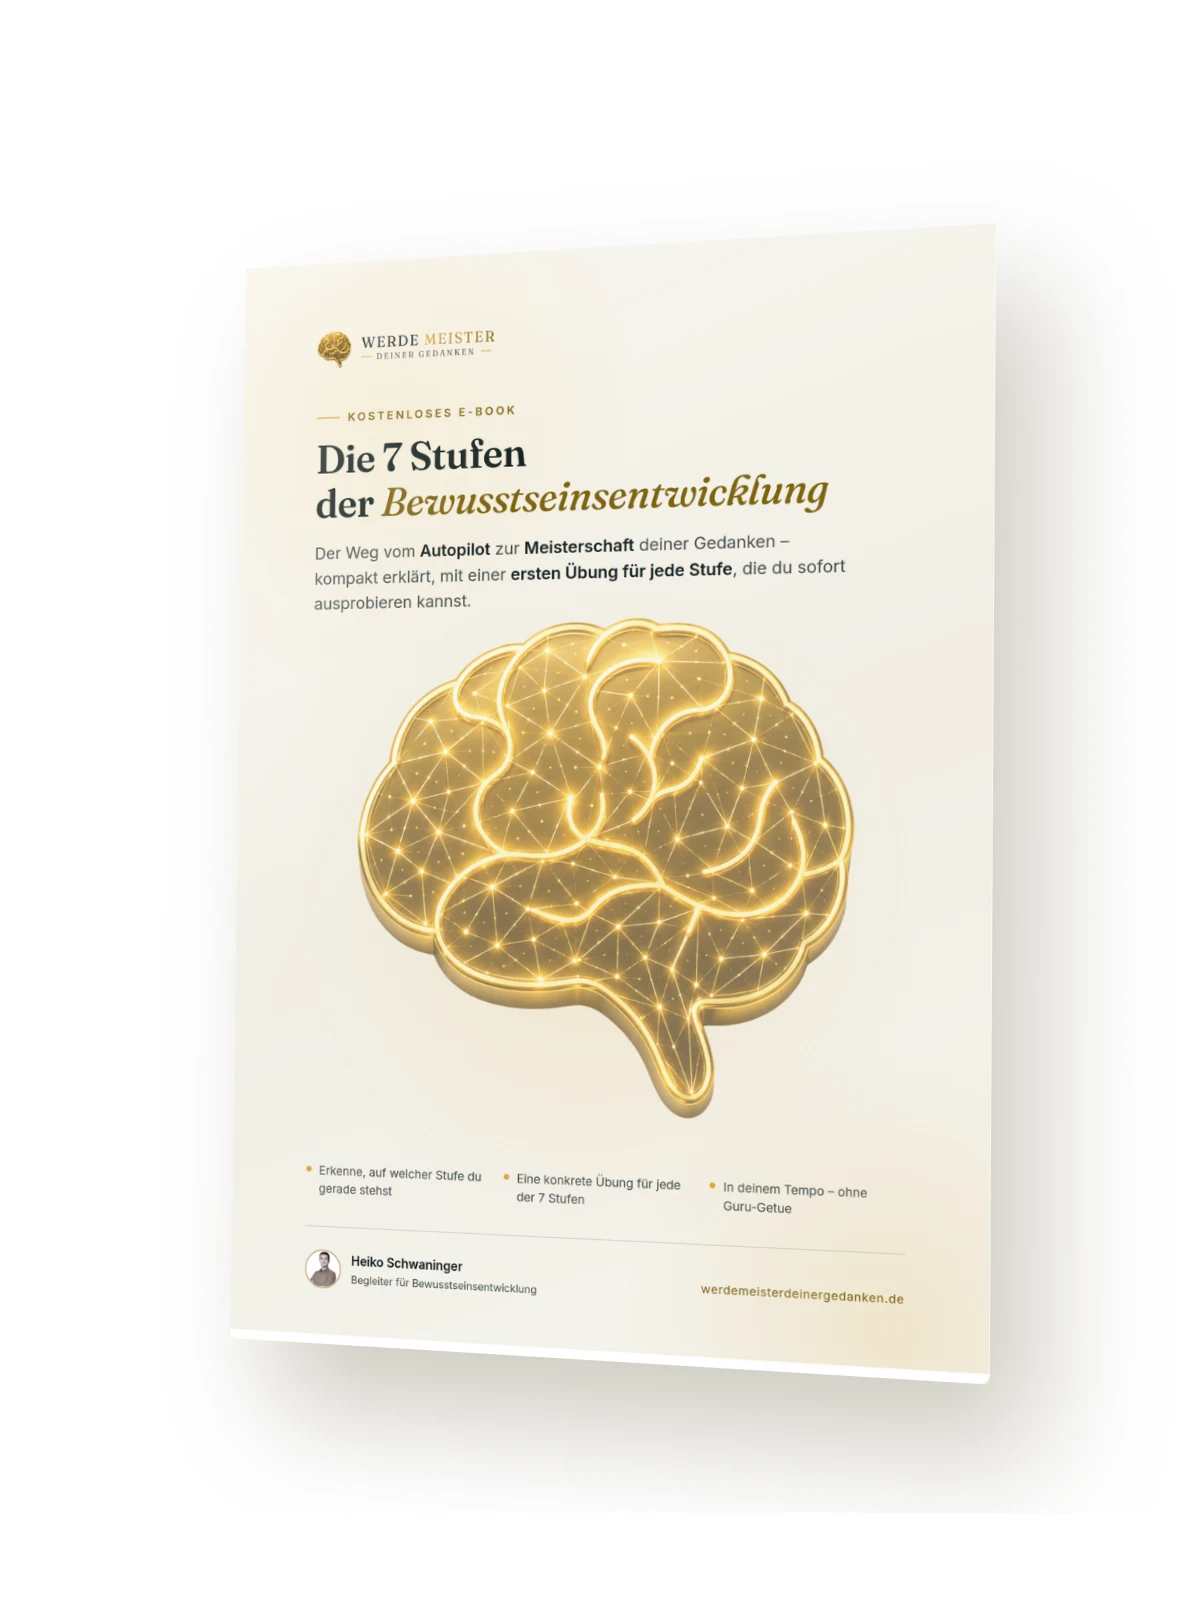
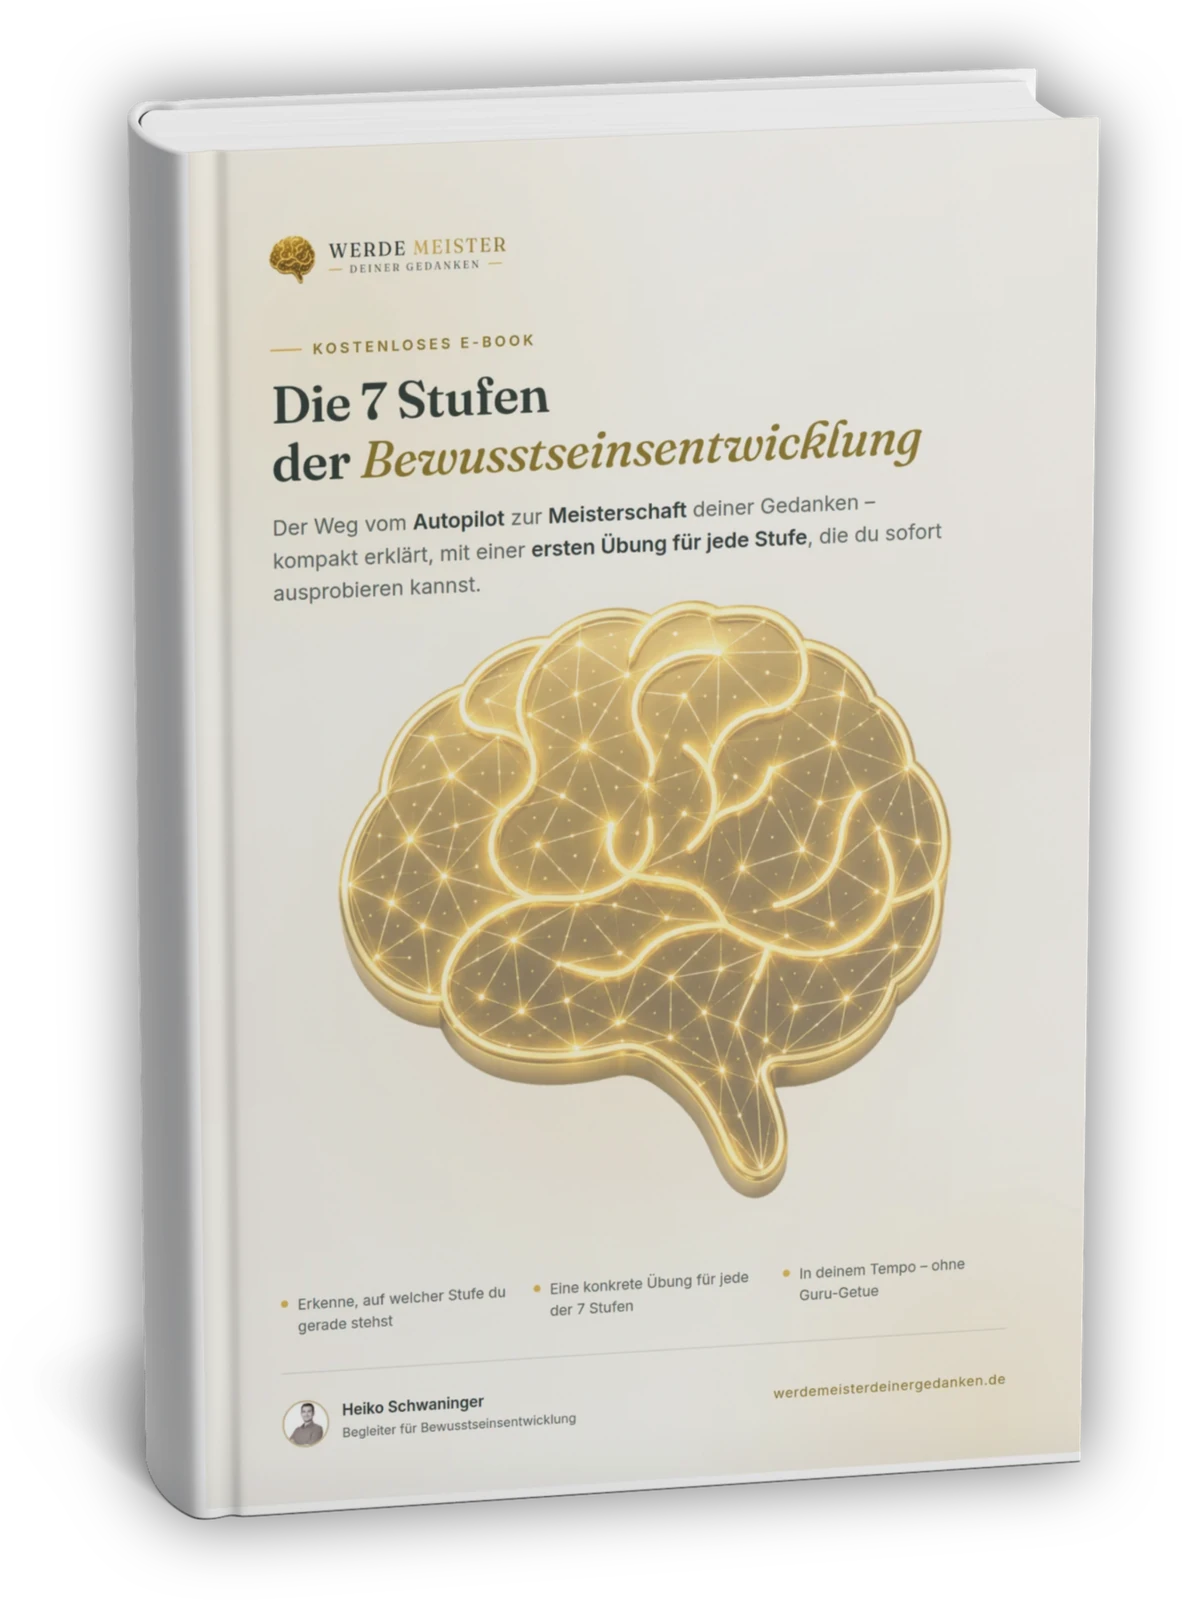
Buchmockup: neues 3D-Render auf Startseite und /gratis-ebook
Ersetzt public/ebook-mockup.webp durch das neue 3D-Buchrender
(cremeweisser Umschlag, goldenes Seitengehirn, perspektivische
Ansicht). Transparenter Hintergrund, damit das Buch mit dem
vorhandenen Gold-Schein und drop-shadow-2xl auf dem Navy-Grund steht.

Kein Code-Change noetig: beide Stellen (LeadMagnet, gratis-ebook)
importieren die Datei statisch unter demselben Pfad; next/image liest
die neuen Masse (1182x1600) automatisch.

Claude-Session: https://claude.ai/code/session_011KY5ZgZaXCfbSX1FxsxVGX

diff --git a/docs/AENDERUNGEN.md b/docs/AENDERUNGEN.md
@@ -5,6 +5,30 @@ aktuelle Stand nachvollziehbar ist. Neueste Einträge oben.
 
 ---
 
+## 2026-09-04 – Neues 3D-Buchmockup auf der Website
+
+Das E-Book-Mockup, das auf der Startseite (`LeadMagnet`) und auf
+`/gratis-ebook` neben dem Anmeldeformular steht, wurde gegen ein neues
+**3D-Buchrender** ausgetauscht (Titel „Die 7 Stufen der
+Bewusstseinsentwicklung", cremeweißer Umschlag mit goldenem Seitengehirn,
+perspektivische Ansicht mit Buchrücken).
+
+- Ersetzt: `public/ebook-mockup.webp` (vorher flache Cover-Ansicht 1200×1600,
+  jetzt 3D-Render 1182×1600, transparenter Hintergrund).
+- **Kein Code-Change nötig**: Beide Stellen importieren die Datei statisch
+  unter demselben Pfad (`LeadMagnet.tsx`, `gratis-ebook/page.tsx`);
+  `next/image` liest die neuen Maße automatisch, die Anzeige nutzt feste
+  Breite + `h-auto`, das Seitenverhältnis passt sich an.
+- Transparenz bewusst beibehalten: Das Buch steht so mit dem vorhandenen
+  Gold-Schein und `drop-shadow-2xl` auf dem Navy-Grund, ohne schwarzen Rand.
+- Quelle 3000×4000 PNG (RGBA) → auf Alpha-Bounding-Box zugeschnitten und auf
+  Höhe 1600 skaliert, als WebP (Q90) gespeichert (~116 KB).
+
+Nicht berührt: `public/ebook-cover.*` (flache Cover-Variante, wird im
+Website-Code nicht referenziert) und das E-Book-PDF selbst.
+
+---
+
 ## 2026-09-03 – E-Book nur noch mit bestätigter Anmeldung
 
 Der Lead-Magnet war auf **zwei** Wegen ohne E-Mail-Adresse zu bekommen:
